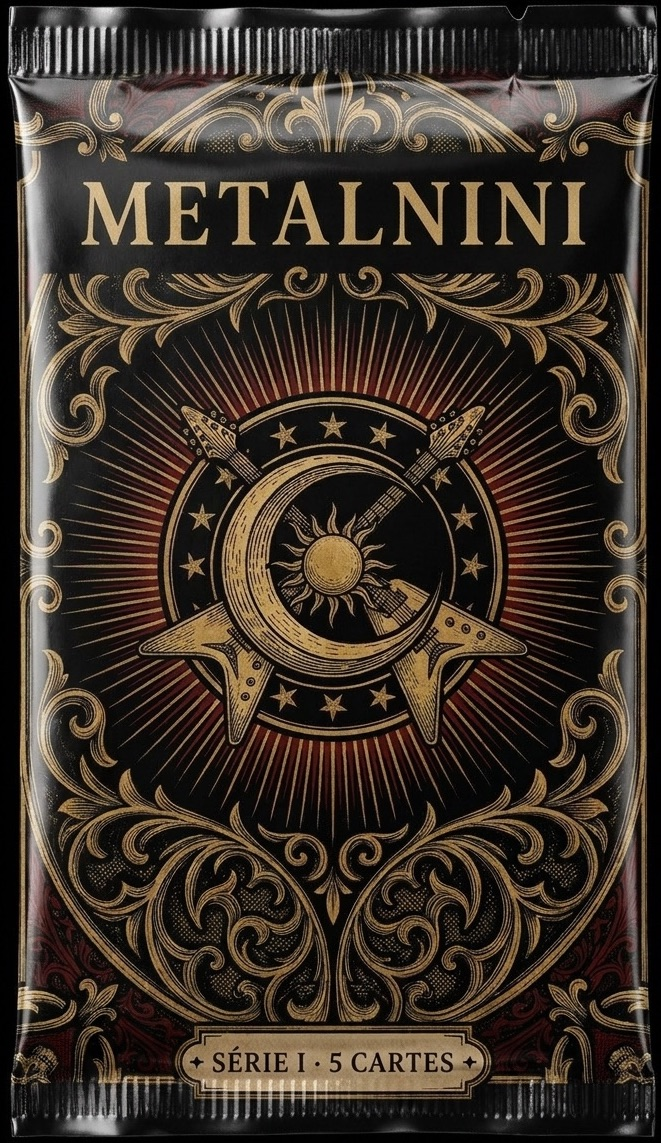
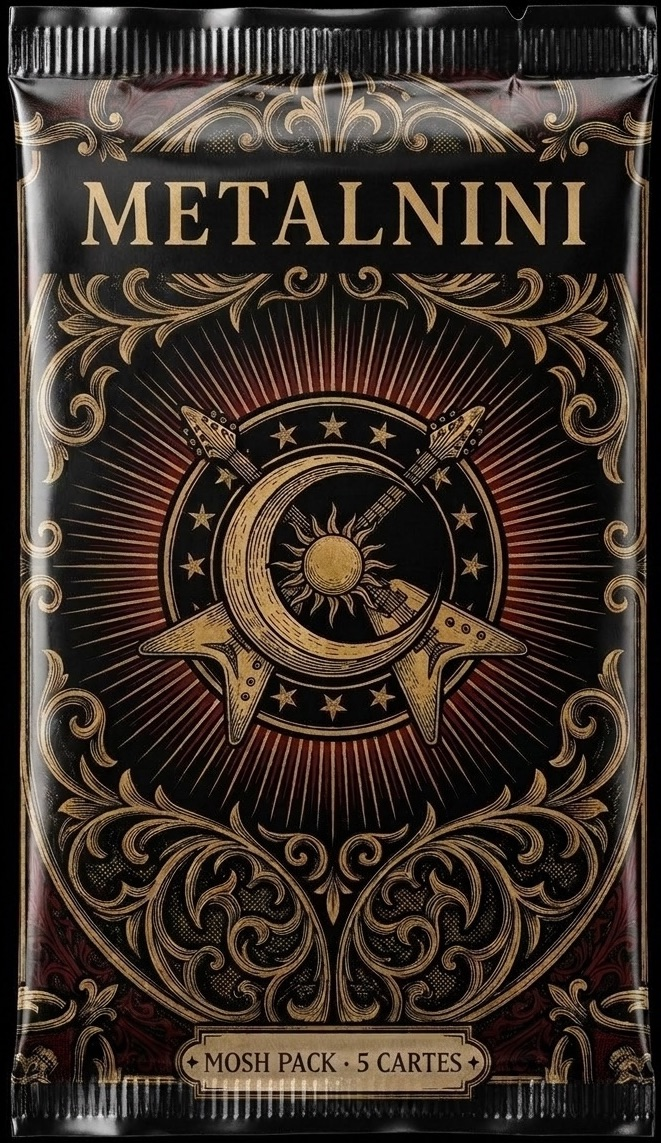
Rename the all-styles pack to Mosh Pack and explain each pack
The generalist pack is now the Mosh Pack (new sachet label), and a line
under the pack says what it draws from.

diff --git a/concept.html b/concept.html
@@ -1003,12 +1003,12 @@ Traits visuels et titres/achievements déblocables selon le vécu cumulé sur ce
   <h3>Paquet</h3>
   <div class="slots creas">
     <figure class="slot" data-rarity="archive"><div class="slot-img"><img src="assets/da/creas/pack-a.jpg" alt="Booster Metalnini en foil" loading="lazy" onload="this.parentNode.classList.add('has-img')" onerror="this.remove()"><span class="ph">pack-a.jpg</span></div>
-      <figcaption><strong>A · Booster en foil (retenu pour l'app)</strong><span class="meta">Sachet scellé aux bords sertis, sigil du dos de carte, « METALNINI » et « SÉRIE I · 5 CARTES ». C'est l'objet que l'on déchire du doigt dans le prototype.</span></figcaption></figure>
+      <figcaption><strong>A · Booster en foil (retenu pour l'app)</strong><span class="meta">Sachet scellé aux bords sertis, sigil du dos de carte, « METALNINI ». Devenu le <b>Mosh Pack</b> (« MOSH PACK · 5 CARTES ») : le paquet tous styles, qui tire dans tous les musiciens, comme un mosh pit où toutes les scènes se mélangent. C'est l'objet que l'on déchire du doigt dans le prototype.</span></figcaption></figure>
     <figure class="slot" data-rarity="archive"><div class="slot-img"><img src="assets/da/creas/pack-b.jpg" alt="Booster Metalnini sous blister" loading="lazy" onload="this.parentNode.classList.add('has-img')" onerror="this.remove()"><span class="ph">pack-b.jpg</span></div>
       <figcaption><strong>B · Sous blister</strong><span class="meta">Le même booster dans une coque plastique sur carton gravé : piste pour la boutique, la présentation ou un futur produit physique (phase 2 hybride).</span></figcaption></figure>
   
   </div>
-  <p>Un sachet par classeur de style, même design, couleur d'accent propre : un paquet de style ne contient que des cartes de son classeur, la Série I tire dans tous les musiciens.</p>
+  <p>Un sachet par classeur de style, même design, couleur d'accent propre : un paquet de style ne contient que des cartes de son classeur, le Mosh Pack tire dans tous les musiciens.</p>
   <div class="slots mood tall">
     <figure class="slot"><div class="slot-img"><img src="assets/da/creas/pack-metalcore.jpg" alt="Paquet Metalcore" loading="lazy" onload="this.parentNode.classList.add('has-img')" onerror="this.remove()"><span class="ph">pack-metalcore.jpg</span></div><figcaption><strong>Metalcore</strong>Bleu glacial et argent</figcaption></figure>
     <figure class="slot"><div class="slot-img"><img src="assets/da/creas/pack-hardcore.jpg" alt="Paquet Hardcore & extrême" loading="lazy" onload="this.parentNode.classList.add('has-img')" onerror="this.remove()"><span class="ph">pack-hardcore.jpg</span></div><figcaption><strong>Hardcore & extrême</strong>Rouge sang</figcaption></figure>
@@ -1134,10 +1134,11 @@ Card type: [TYPE]. Rarity treatment: [RARETÉ].</code></pre>
       <tr><td>Paquet, deux propositions (foil, blister)</td><td>2</td><td>Nano Banana Pro</td><td>0,30 $</td></tr>
       <tr><td>Paquets par classeur de style</td><td>5</td><td>Nano Banana Pro</td><td>0,75 $</td></tr>
       <tr><td>Flammes gravées (animation Légendaire)</td><td>1</td><td>Nano Banana Pro</td><td>0,15 $</td></tr>
-      <tr><td><b>Total Nano Banana Pro</b></td><td><b>123</b></td><td></td><td><b>18,45 $</b></td></tr>
+      <tr><td>Mosh Pack (renommage du sachet)</td><td>1</td><td>Nano Banana Pro</td><td>0,15 $</td></tr>
+      <tr><td><b>Total Nano Banana Pro</b></td><td><b>124</b></td><td></td><td><b>18,60 $</b></td></tr>
     </tbody>
   </table></div>
-  <p><b>Solde estimé au 2026-09-24 : environ 1,40 $</b> (environ 0,10 $ restants + 10 $ rechargés le 2026-09-24, moins 8,70 $ pour les 58 images du jour). À vérifier sur krea.ai/app/api. Rechargements au total : 20 $.</p>
+  <p><b>Solde estimé au 2026-09-24 : environ 1,25 $</b> (environ 0,10 $ restants + 10 $ rechargés le 2026-09-24, moins 8,85 $ pour les 59 images du jour). À vérifier sur krea.ai/app/api. Rechargements au total : 20 $.</p>
 
   <h3>Estimation par carte</h3>
   <ul>

diff --git a/proto/index.html b/proto/index.html
@@ -307,6 +307,8 @@
   #flames-pack{z-index:31}
   #flames-reveal{position:absolute; z-index:0}
   #reveal-one{position:relative; z-index:1}
+  .pack-desc{margin:4px 0 0; max-width:320px; text-align:center; font-size:.84rem; color:var(--muted); line-height:1.4}
+  .pack-desc b{color:var(--text); font-family:var(--display); text-transform:uppercase; letter-spacing:.04em; font-weight:500}
   .toggle{display:flex; justify-content:space-between; align-items:center; font-size:.9rem}
   .toggle input{width:22px; height:22px; accent-color:var(--accent)}
 
@@ -329,10 +331,11 @@
       <div class="ptilt" id="ptilt">
       <button type="button" class="pack art" id="pack" aria-label="Déchirer le paquet (glisser vers la droite, ou toucher pour l'ouvrir)">
         <span class="flap"><span class="tear"></span></span><span class="grip" aria-hidden="true">✂</span>
-        <span class="p-moon">☾</span><span class="p-title">Série I</span><span class="p-sub" id="pack-sub">5 cartes</span>
+        <span class="p-moon">☾</span><span class="p-title">Mosh Pack</span><span class="p-sub" id="pack-sub">5 cartes</span>
         <span class="glare"></span>
       </button>
       </div>
+      <p class="pack-desc" id="pack-desc"></p>
       <p class="swipe-hint" id="swipe-hint">Glisse le doigt sur le paquet pour le déchirer →</p>
     </div>
     <div class="pack-picker" id="pack-picker" role="group" aria-label="Choisir un paquet"></div>
@@ -514,8 +517,8 @@
     return 'commune';
   }
   // Le contenu est tiré dès que le paquet est entamé et conservé tel quel : abandonner la déchirure ne relance pas le tirage.
-  // Paquets : la Série I tire dans tous les musiciens, un paquet de style seulement dans son classeur
-  var PACKS = [{k:'serie', label:'Série I'}].concat(BINDERS.filter(function(b){ return b.kind === 'Styles'; }).map(function(b){ return {k:b.k, label:b.label}; }))
+  // Paquets : le Mosh Pack tire dans tous les musiciens, un paquet de style seulement dans son classeur
+  var PACKS = [{k:'serie', label:'Mosh Pack', desc:'Tous les styles dans le même pit : 5 cartes tirées parmi les ' + CARDS.length + ' musiciens.'}].concat(BINDERS.filter(function(b){ return b.kind === 'Styles'; }).map(function(b){ return {k:b.k, label:b.label, desc:'Uniquement les ' + b.ids.length + ' musiciens du classeur ' + b.label + ' : idéal pour le compléter.'}; }))
     .filter(function(p){ return !window.METALNINI_PACKS || window.METALNINI_PACKS[p.k] || p.k === 'serie'; });
   function packPool(k){ var b = k === 'serie' ? null : binderOf(k); var ids = b ? b.ids : CARDS.map(function(c){ return c.id; }); return ids.filter(function(id){ return card(id); }); }
   function pendingPack(){
@@ -535,7 +538,9 @@
     el.hidden = PACKS.length < 2;
     el.innerHTML = PACKS.map(function(p){ return '<button type="button" data-p="' + p.k + '" aria-pressed="' + (p.k === state.packType) + '"><img src="cards/pack-' + p.k + '.jpg" alt=""><small>' + esc(p.label) + '</small></button>'; }).join('');
     [].forEach.call(el.querySelectorAll('button'), function(b){ b.addEventListener('click', function(){ if(opening) return; state.packType = b.getAttribute('data-p'); save(); renderPacks(); }); });
-    pk.setAttribute('aria-label', 'Déchirer le paquet ' + (PACKS.filter(function(p){ return p.k === state.packType; })[0] || PACKS[0]).label);
+    var cur = PACKS.filter(function(p){ return p.k === state.packType; })[0] || PACKS[0];
+    pk.setAttribute('aria-label', 'Déchirer le paquet ' + cur.label);
+    document.getElementById('pack-desc').innerHTML = '<b>' + esc(cur.label) + '</b> · ' + esc(cur.desc);
   }
 
   // Prochain objectif : le classeur le plus proche d'être complété, sinon la maîtrise la plus avancée

diff --git a/tools/build_proto_cards.py b/tools/build_proto_cards.py
@@ -51,7 +51,7 @@ def crop_pack(src, dst):
     return round((x1 - x0) / (y1 - y0), 4)
 
 packs = {}
-for key, name in (("serie", "pack-a"), ("metalcore", "pack-metalcore"), ("hardcore", "pack-hardcore"), ("numetal", "pack-numetal"),
+for key, name in (("serie", "pack-mosh" if os.path.exists(f"{CREAS}/pack-mosh.jpg") else "pack-a"), ("metalcore", "pack-metalcore"), ("hardcore", "pack-hardcore"), ("numetal", "pack-numetal"),
                   ("poppunk", "pack-poppunk"), ("legendes", "pack-legendes")):
     if os.path.exists(f"{CREAS}/{name}.jpg"):
         packs[key] = crop_pack(f"{CREAS}/{name}.jpg", f"{OUT}/pack-{key}.jpg")
